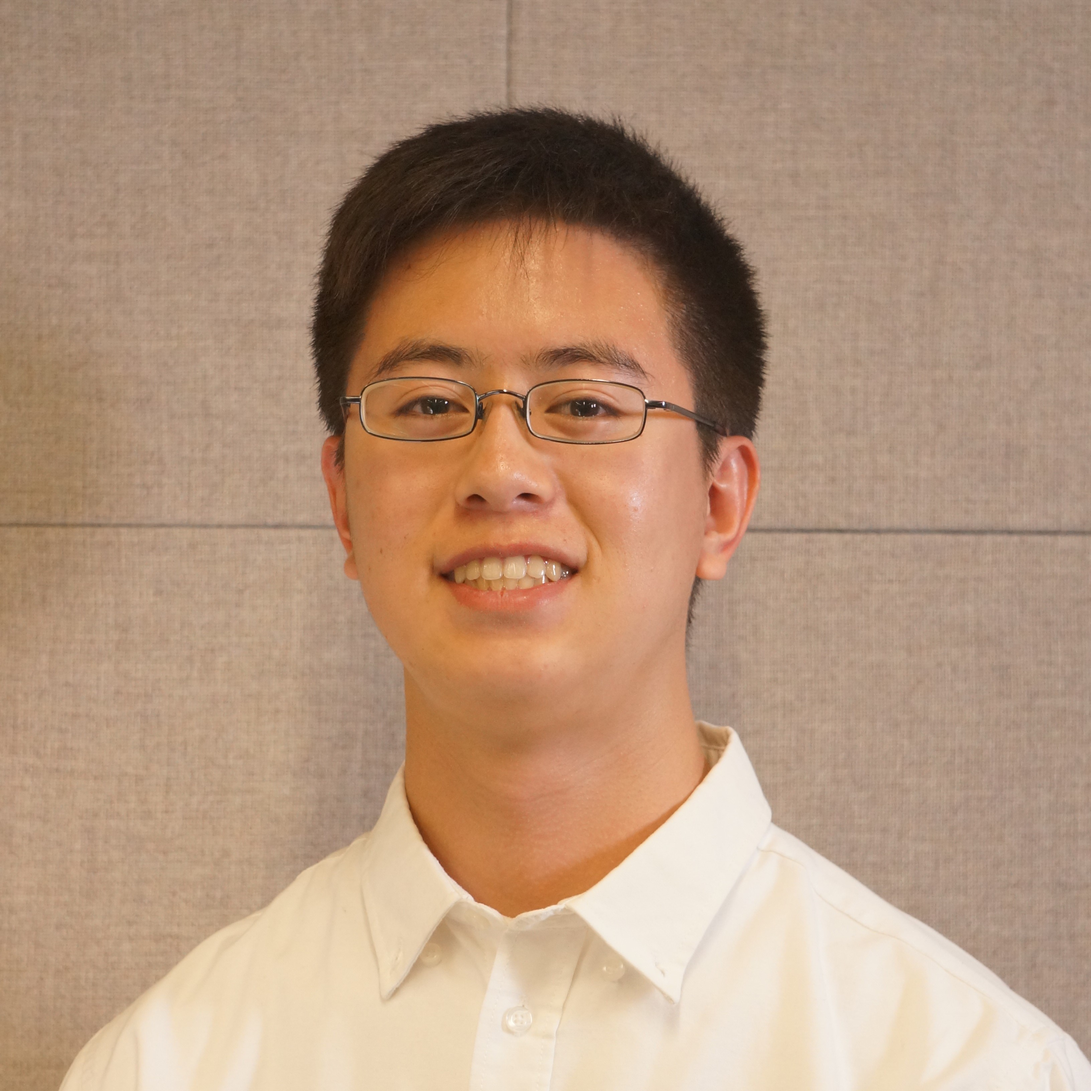
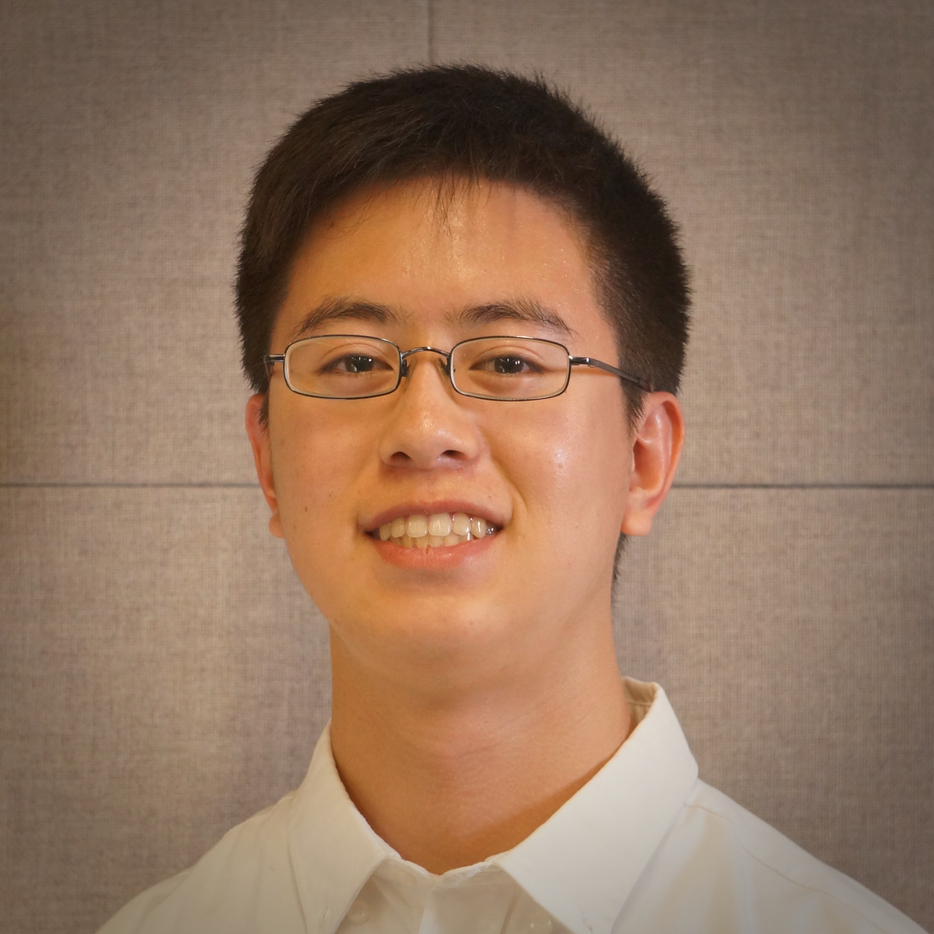
Added headshot to home page, updated font

diff --git a/main.css b/main.css
@@ -4,11 +4,11 @@ body {
 }
 
 nav ul {
+    font-weight: bold;
     list-style: none;
     margin: 0;
     overflow: hidden;
     padding: 0;
-    font-weight: bold;
 }
 
 nav ul li {
@@ -45,8 +45,22 @@ h2 {
 }
 
 p {
+    color: rgb(100, 100, 100);
+    font-weight: bold;
     line-height: 1.4em;
-    color: rgb(51, 51, 51);
+    text-align: center;
+}
+
+.headshot {
+    border-radius: 50%;
+    display: block;
+    margin: 20px auto;
+    height: 15em;
+    width: 15em;
+}
+
+.intro-par {
+    margin: auto 35%;
 }
 
 .nav-name {

diff --git a/index.html b/index.html
@@ -2,5 +2,7 @@
 layout: default
 title: "Home"
 ---
-<p>Hello, I am a Computer Science major at the University of California, San Diego. Here, you can find information about
+<img src="images/headshot.jpg" alt="My face" class="headshot">
+<p class="intro-par">Hello, I am a Computer Science major at the University of California, San Diego. Here, you can find
+  information about
   all of my past and present projects as well as some additional information about me.</p>

diff --git a/_layouts/default.html b/_layouts/default.html
@@ -18,8 +18,8 @@
   </nav>
   <header>
     <h2>{{ page.title }}</h2>
-    {{ content }}
   </header>
+  {{ content }}
 </body>
 
 </html>
